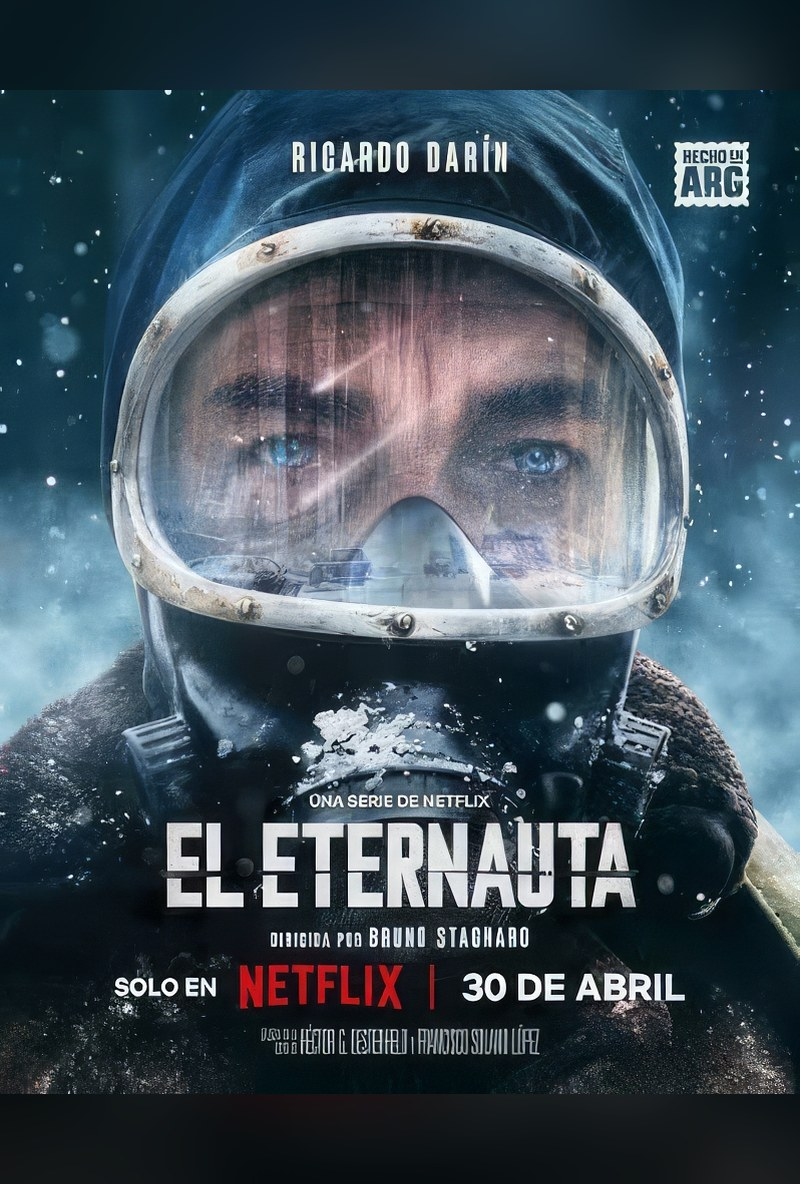
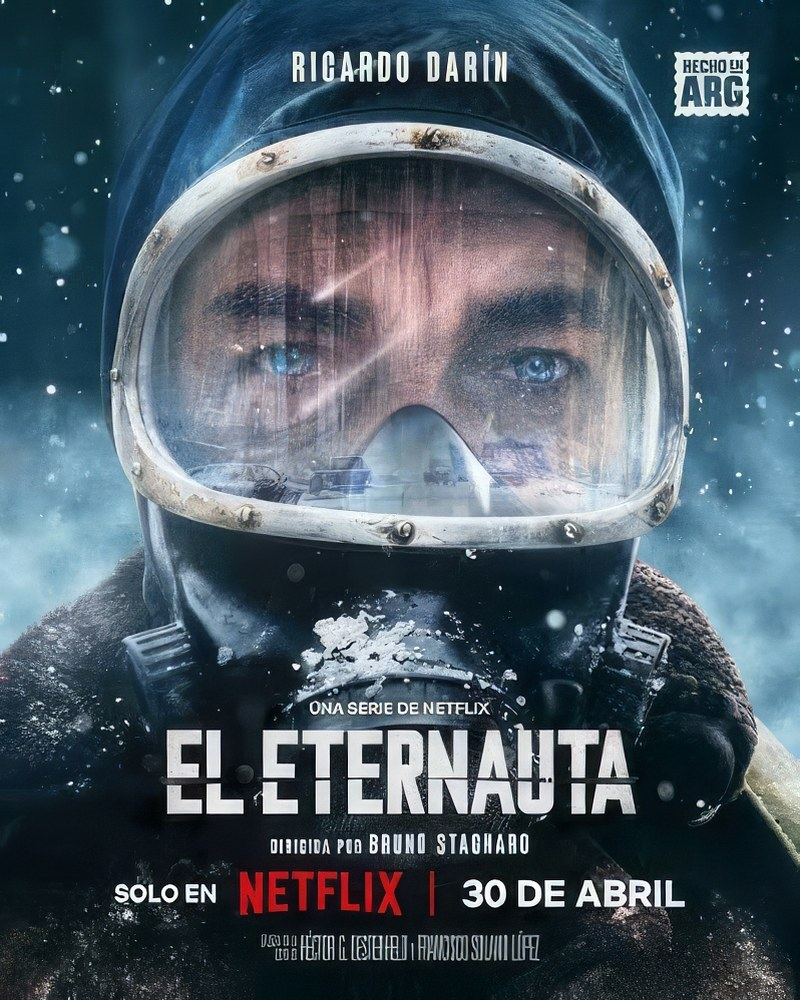
Eternauta cells match poster ratio, no bars
Claude-Session: https://claude.ai/code/session_01WaWpcC7u3zpmWgyMDh59S2

diff --git a/index.html b/index.html
@@ -312,9 +312,9 @@
     { id: '1191398977', title: 'La Sudestada — Dir. Daniel Casabé & Edgardo Dieleke · 2023', poster: 'https://danicasabe728746.github.io/danielcasabe/img:001%20LA%20SUDESTADA%202023.jpg' },
     { id: '1191398975', title: 'La Forma Exacta de las Islas — Dir. Daniel Casabé & Edgardo Dieleke · 2012', poster: 'https://danicasabe728746.github.io/danielcasabe/img:002%20LA%20FORMA%20EXACTA%20DE%20LAS%20ISLAS%202014.jpg' },
     { id: '1191398974', title: 'Cracks de Nácar — Dir. Daniel Casabé & Edgardo Dieleke · 2011', poster: 'https://danicasabe728746.github.io/danielcasabe/img:003%20CRACKS%20DE%20NACAR%202012.jpg' },
-    { id: '1190896723', title: 'Netflix · El Eternauta — Adapting the Eternaut · 2025', poster: 'https://danicasabe728746.github.io/danielcasabe/ETERNAUTA.jpg' },
-    { id: '1190896788', title: 'Netflix · El Eternauta — Building the Apocalypse · 2025', poster: 'https://danicasabe728746.github.io/danielcasabe/ETERNAUTA2.jpg' },
-    { id: '1190896898', title: 'Netflix · El Eternauta — The Collective Hero · 2025', poster: 'https://danicasabe728746.github.io/danielcasabe/ETERNAUTA3.jpg' },
+    { id: '1190896723', title: 'Netflix · El Eternauta — Adapting the Eternaut · 2025', poster: 'https://danicasabe728746.github.io/danielcasabe/ETERNAUTA.jpg', ratio: 125 },
+    { id: '1190896788', title: 'Netflix · El Eternauta — Building the Apocalypse · 2025', poster: 'https://danicasabe728746.github.io/danielcasabe/ETERNAUTA2.jpg', ratio: 125 },
+    { id: '1190896898', title: 'Netflix · El Eternauta — The Collective Hero · 2025', poster: 'https://danicasabe728746.github.io/danielcasabe/ETERNAUTA3.jpg', ratio: 125 },
   ];
 
   /* ━━ No tocar abajo ━━ */
@@ -330,7 +330,7 @@
       const cell = document.createElement('div');
       cell.className = 'cell';
       cell.innerHTML = `
-        <div class="cell-inner">
+        <div class="cell-inner"${item.ratio ? ` style="padding-bottom:${item.ratio}%"` : ''}>
           <div class="cell-bg c${i % 14}" id="bg-${containerId}-${i}"></div>
           <div class="cell-overlay"><div class="play-ring"><div class="play-tri"></div></div></div>
         </div>
